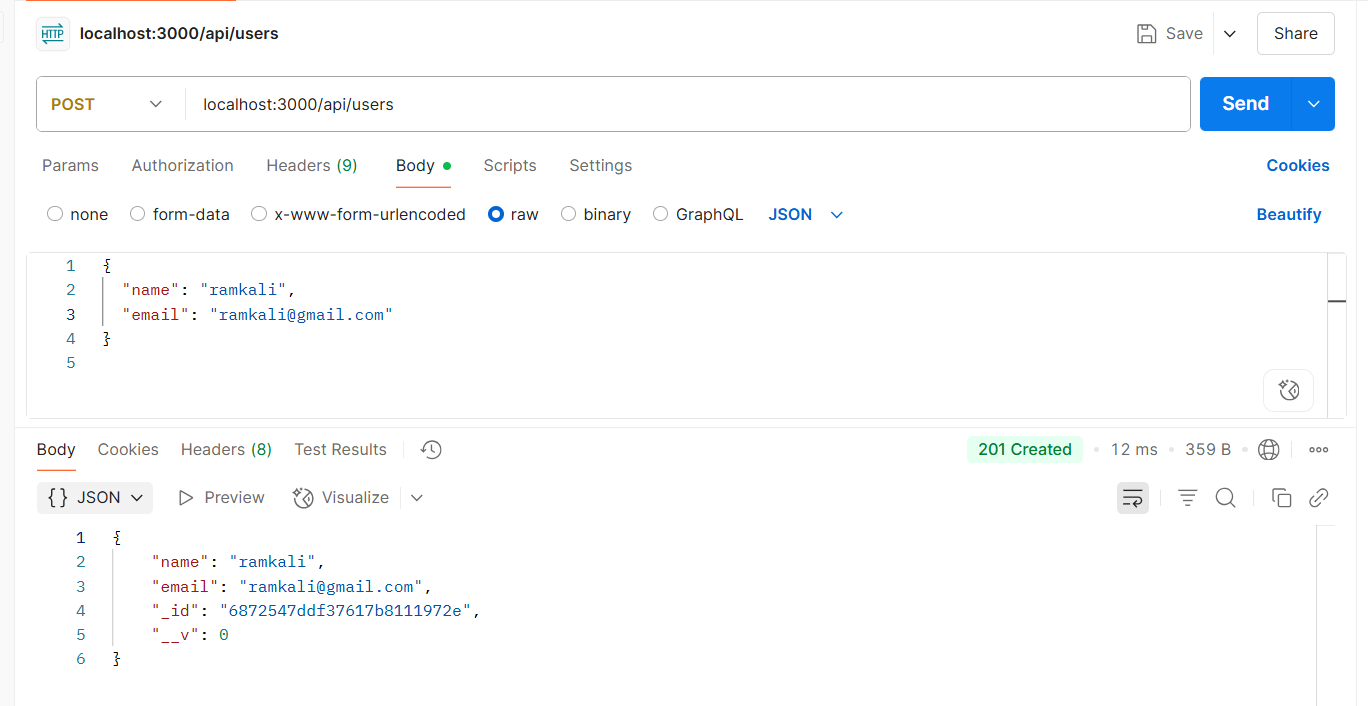
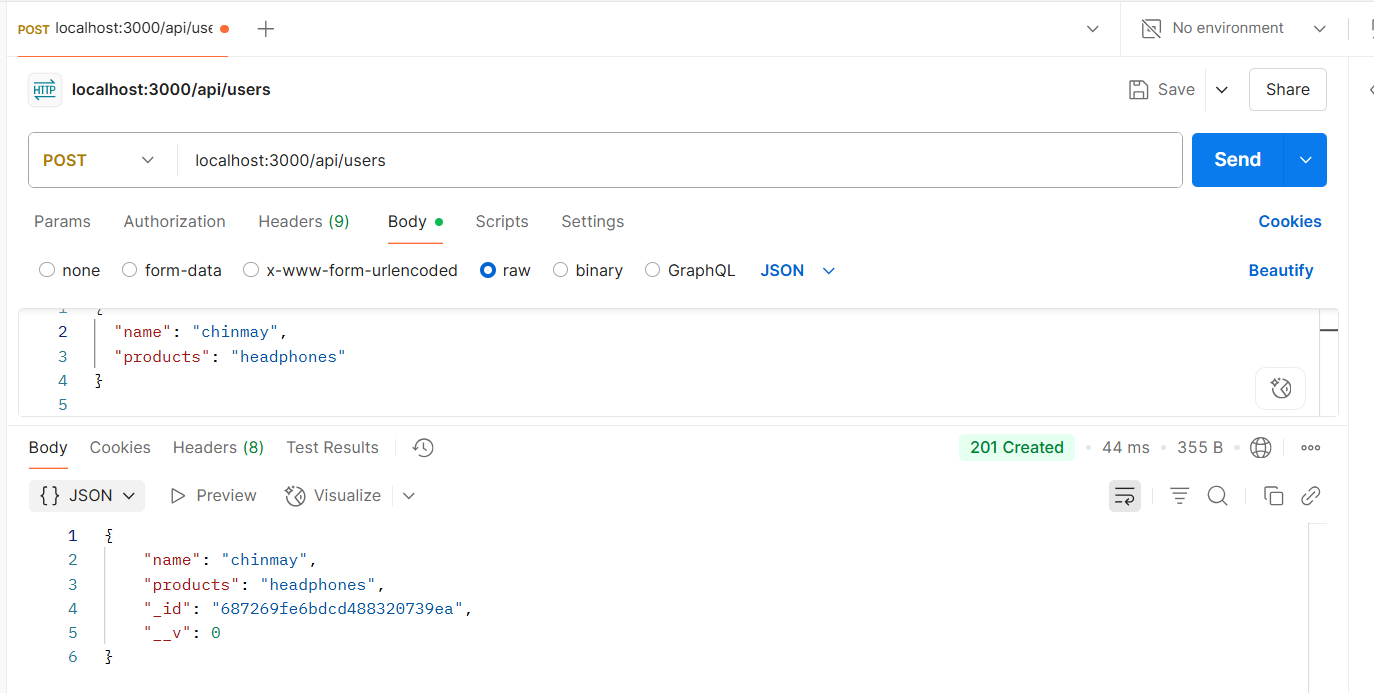
update new images and product part

diff --git a/frontend/index.html b/frontend/index.html
@@ -11,7 +11,7 @@
     <h1>User Management</h1>
     <form id="userForm">
       <input type="text" id="name" placeholder="Enter Name" required />
-      <input type="email" id="email" placeholder="Enter Email" required />
+      <input type="text" id="products" name="products" placeholder="Enter product" required />
       <button type="submit">Add New User</button>
     </form>
     <ul id="userList"></ul>
@@ -26,7 +26,7 @@
       userList.innerHTML = '';
       users.forEach(user => {
         const li = document.createElement('li');
-        li.innerHTML = `${user.name} (${user.email}) 
+        li.innerHTML = `${user.name} (${user.products}) 
           <button onclick="deleteUser('${user._id}')">Delete</button>`;
         userList.appendChild(li);
       });
@@ -34,11 +34,15 @@
     form.addEventListener('submit', async (e) => {
       e.preventDefault();
       const name = document.getElementById('name').value;
-      const email = document.getElementById('email').value;
-      await fetch(API, {
-        method: 'POST',
+      const products = document.getElementById('products').value + '';
+      console.log("Submitting:",{name,products});
+      await fetch(API,{
+        method: 'POSt',
         headers: { 'Content-Type': 'application/json' },
-        body: JSON.stringify({ name, email }),
+        body: JSON.stringify({
+          name: String(name),
+          products: String(products)
+        }),
       });
       form.reset();
       fetchUsers();
